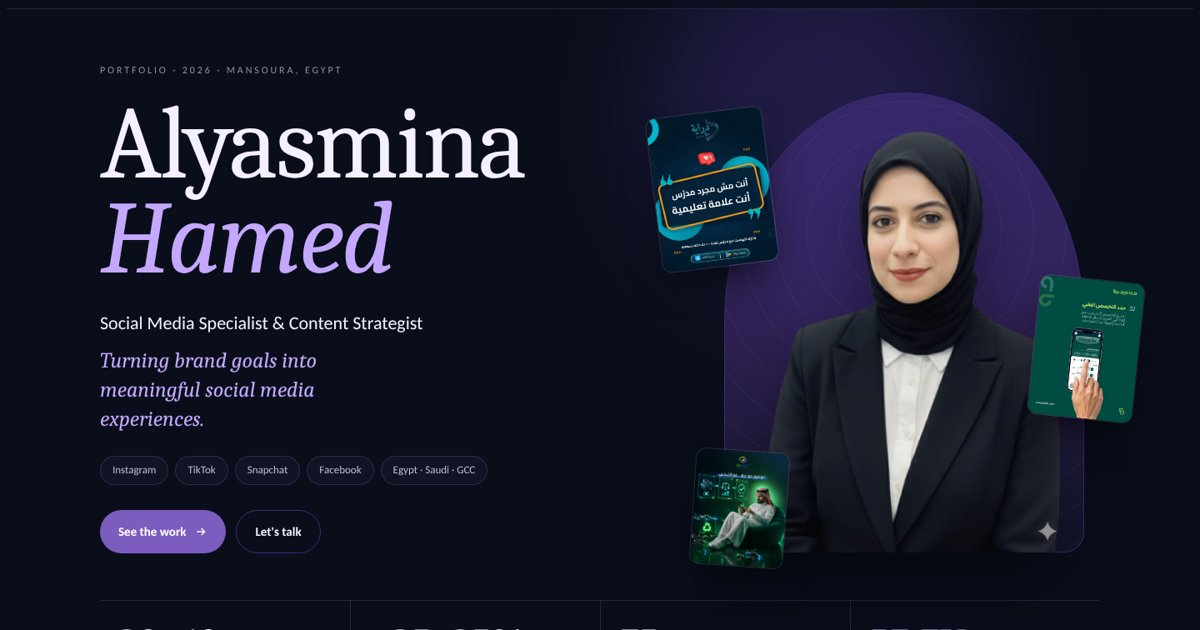
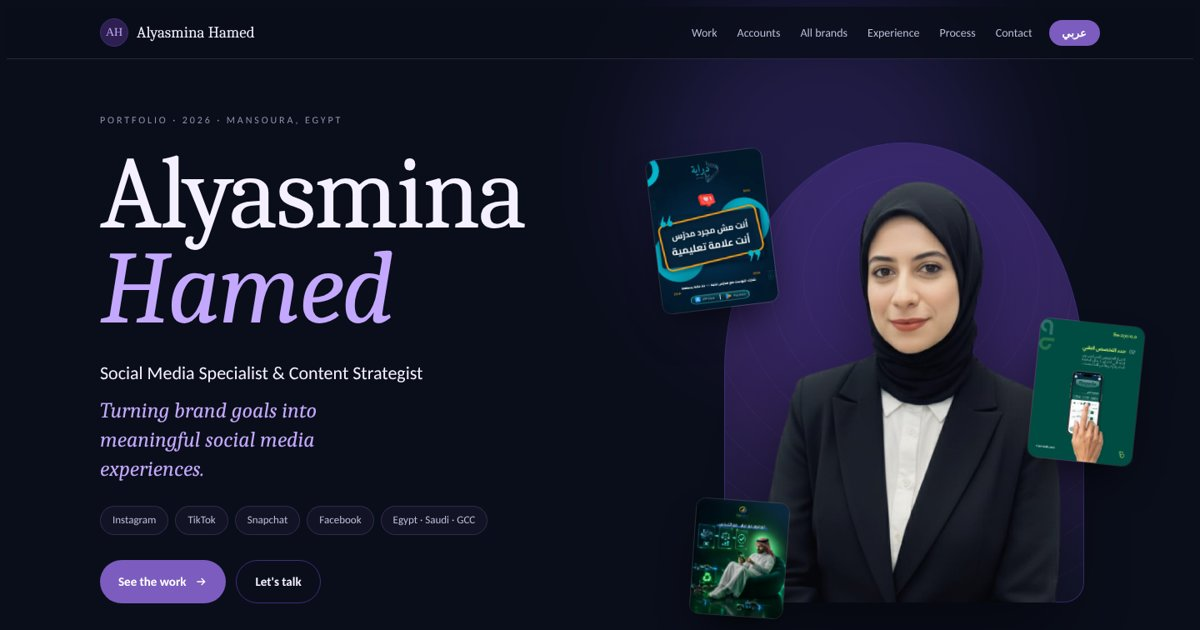
Add files via upload

diff --git a/index.html b/index.html
@@ -426,6 +426,46 @@ html[dir="rtl"] .mix i{transform-origin:right}
 .bchips span.b.star{border-color:var(--iris);color:var(--lilac)}
 @media (max-width:760px){.dir-row{grid-template-columns:1fr;gap:14px}}
 
+
+/* easy list results */
+.res.alt .res-cols{grid-template-columns:1fr 1fr;align-items:start}
+.res.alt .mgrid{grid-template-columns:repeat(2,1fr)}
+.stack{display:grid;gap:12px}
+.stack .post{background:#fff}
+.callouts{display:grid;gap:14px;margin-top:18px}
+.callouts p{font-size:14px;color:var(--mist);border-inline-start:2px solid var(--iris);padding-inline-start:12px}
+.callouts b{color:var(--paper);font-weight:600}
+@media (max-width:900px){.res.alt .res-cols{grid-template-columns:1fr}}
+
+
+/* mawaeidk results */
+.res.big .bighead{display:grid;grid-template-columns:auto 1fr;gap:32px;align-items:end}
+.res.big .bighead>*{min-width:0}
+.res.big .hero-n{font-family:"Fraunces",serif;font-weight:300;font-size:clamp(64px,9vw,120px);line-height:.9;color:var(--lilac);direction:ltr;unicode-bidi:isolate}
+.res.big .hero-n small{display:block;font-family:var(--body);font-size:14px;color:var(--mist);margin-top:12px;font-weight:400}
+.res.big .mgrid{grid-template-columns:repeat(4,1fr)}
+.shots3{display:grid;grid-template-columns:repeat(3,1fr);gap:12px}
+.shots3 .post{background:#fff}
+@media (max-width:900px){.res.big .bighead{grid-template-columns:1fr}.res.big .mgrid{grid-template-columns:repeat(2,1fr)!important}.shots3{grid-template-columns:1fr}}
+
+
+/* mawaeidk 3-platform */
+.plats{display:grid;grid-template-columns:1.25fr 1fr 1fr;gap:16px}
+.plats>div{min-width:0;background:rgba(10,14,26,.45);border:1px solid var(--line);border-radius:14px;padding:18px}
+.plats .pn{font-family:"Fraunces",serif;font-weight:300;font-size:clamp(36px,4vw,52px);line-height:1;direction:ltr;unicode-bidi:isolate;color:var(--paper)}
+html[dir="rtl"] .plats .pn{text-align:right}
+.plats .pl{font-size:13px;color:var(--mist);margin-top:6px}
+.plats .rows{display:grid;gap:8px;margin-top:16px;font-size:14px}
+.plats .rows div{display:flex;justify-content:space-between;gap:12px;border-top:1px solid var(--line);padding-top:8px}
+.plats .rows b{font-weight:600;direction:ltr;unicode-bidi:isolate;font-variant-numeric:tabular-nums}
+.plats .rows span{color:var(--mist)}
+.proofgrid{display:grid;grid-template-columns:repeat(3,1fr);gap:12px}
+.proofgrid .post{background:#fff}
+.proofgrid .wide{grid-column:1/-1}
+.proofgrid .span2{grid-column:span 2}
+@media (max-width:900px){.proofgrid .span2{grid-column:auto}}
+@media (max-width:900px){.plats,.proofgrid{grid-template-columns:1fr}}
+
 /* lightbox */
 .lb{position:fixed;inset:0;z-index:50;background:rgba(6,8,16,.92);display:grid;place-items:center;padding:max(24px,env(safe-area-inset-top,0px)) 24px 24px;cursor:zoom-out}
 .lb[hidden]{display:none}
@@ -480,7 +520,7 @@ html[dir="rtl"] .mix i{transform-origin:right}
       <div class="stat"><b class="num" data-count="40" data-pre="30–">30–40</b><span class="en">accounts managed at the same time</span><span class="ar">حساب بديرهم في نفس الوقت</span><small class="en">10–14 clients · Heen Agency</small><small class="ar">10–14 عميل · وكالة هين</small></div>
       <div class="stat"><b class="num" data-count="35" data-pre="+25–" data-suf="%">+25–35%</b><span class="en">reach growth in 2–3 months</span><span class="ar">زيادة في الوصول خلال 2–3 شهور</span><small>AK Media</small></div>
       <div class="stat"><b class="num" data-count="75" data-suf="+">75+</b><span class="en">brands in my content-plan archive</span><span class="ar">براند في أرشيف خطط المحتوى بتاعي</span><small class="en">Egypt, Saudi Arabia, Oman, GCC</small><small class="ar">مصر، السعودية، عُمان، الخليج</small></div>
-      <div class="stat"><b class="num hi" data-count="57.7" data-dec="1" data-suf="K">57.7K</b><span class="en">Facebook views in 3 months, from zero</span><span class="ar">مشاهدة على فيسبوك في 3 شهور، من الصفر</span><small class="en">Deraya · 760 new follows</small><small class="ar">دِراية · 760 متابعة جديدة</small></div>
+      <div class="stat"><b class="num hi" data-count="2.29" data-dec="2" data-suf="M">2.29M</b><span class="en">views in a brand's first 3 months</span><span class="ar">مشاهدة في أول 3 شهور لبراند</span><small class="en">Mawaeidk · Facebook, Instagram, TikTok</small><small class="ar">مواعيدك · فيسبوك، إنستجرام، تيك توك</small></div>
     </div>
   </div>
 
@@ -574,7 +614,7 @@ html[dir="rtl"] .mix i{transform-origin:right}
           <div class="idx"><b>02</b><span>Tasweeq</span><span class="en">Healthcare booking app · Saudi Arabia</span><span class="ar">تطبيق حجز مواعيد طبية · السعودية</span></div>
           <h3>Mawaeidk · مواعيدك — <span class="en"><em>making a booking app feel like care</em></span><span class="ar"><em>تطبيق حجز بإحساس الرعاية</em></span></h3>
         </div>
-        <p class="sum reveal"><span class="en">An app that lists healthcare providers and lets patients book in a few taps. I planned the monthly content, wrote the highlights, built the follower-growth and video ideas, and wrote the copy for provider-onboarding posts and an awareness reel for Breast Cancer Awareness Month.</span><span class="ar">تطبيق بيعرض مقدمي الخدمة الطبية وبيخلي المريض يحجز في كام ضغطة. خططت المحتوى الشهري، كتبت الهايلايتس، حطيت أفكار زيادة المتابعين والفيديوهات، وكتبت محتوى بوستات انضمام المراكز وريل توعوي لشهر التوعية بسرطان الثدي.</span></p>
+        <p class="sum reveal"><span class="en">An app that lists healthcare providers and lets patients book in a few taps. I planned the monthly content, wrote the highlights, built the follower-growth and video ideas, and wrote the copy for provider-onboarding posts and an awareness reel for Breast Cancer Awareness Month. In its first three months the accounts reached 2.29M views across Facebook, Instagram and TikTok.</span><span class="ar">تطبيق بيعرض مقدمي الخدمة الطبية وبيخلي المريض يحجز في كام ضغطة. خططت المحتوى الشهري، كتبت الهايلايتس، حطيت أفكار زيادة المتابعين والفيديوهات، وكتبت محتوى بوستات انضمام المراكز وريل توعوي لشهر التوعية بسرطان الثدي. وفي أول تلات شهور الحسابات وصلت لـ2.29 مليون مشاهدة على فيسبوك وإنستجرام وتيك توك.</span></p>
       </div>
       <div class="row4">
         <figure class="reveal"><div class="post"><img src="img/maw-1.webp" alt="Mawaeidk teaser post: coming soon to Qatar" width="900" height="1200" loading="lazy"></div><figcaption class="en">Teaser · market expansion</figcaption><figcaption class="ar">تيزر · التوسع في سوق جديد</figcaption></figure>
@@ -582,6 +622,38 @@ html[dir="rtl"] .mix i{transform-origin:right}
         <figure class="reveal"><div class="post"><img src="img/maw-3.webp" alt="Mawaeidk post: discounts from employers" width="900" height="1200" loading="lazy"></div><figcaption class="en">Benefit post · B2B angle</figcaption><figcaption class="ar">بوست ميزة · زاوية الشركات</figcaption></figure>
         <figure class="reveal"><div class="post"><img src="img/maw-4.webp" alt="Mawaeidk English app download post" width="900" height="1200" loading="lazy"></div><figcaption class="en">English download concept</figcaption><figcaption class="ar">فكرة تحميل بالإنجليزي</figcaption></figure>
       </div>
+
+      <div class="res big reveal" id="mawaeidk-results">
+        <div class="res-head">
+          <div><p class="eyebrow"><span class="en">Results · first 3 months</span><span class="ar">النتائج · أول 3 شهور</span></p>
+          <h4 style="margin-top:10px"><span class="en">Facebook, Instagram and TikTok</span><span class="ar">فيسبوك وإنستجرام وتيك توك</span></h4></div>
+          <span class="zero"><span class="en">3 platforms</span><span class="ar">3 منصات</span></span>
+        </div>
+        <div class="bighead" style="grid-template-columns:1fr">
+          <div class="hero-n">2.29M<small class="en">views across the three platforms (926.4K + 411.1K + 954.7K)</small><small class="ar">مشاهدة على التلات منصات (926.4K + 411.1K + 954.7K)</small></div>
+        </div>
+        <div class="plats">
+          <div><p class="plat">Facebook · <span class="en">organic + paid</span><span class="ar">أورجانيك + ممول</span></p><div class="pn">926.4K</div><p class="pl"><span class="en">views</span><span class="ar">مشاهدة</span></p>
+            <div class="rows"><div><span><span class="en">Viewers</span><span class="ar">مشاهد</span></span><b>240.9K</b></div><div><span><span class="en">Page visits</span><span class="ar">زيارات للصفحة</span></span><b>6.5K</b></div><div><span><span class="en">Link clicks</span><span class="ar">ضغطات على اللينك</span></span><b>3.9K</b></div><div><span><span class="en">Content interactions</span><span class="ar">تفاعل على المحتوى</span></span><b>389</b></div></div></div>
+          <div><p class="plat">Instagram</p><div class="pn">411.1K</div><p class="pl"><span class="en">views</span><span class="ar">مشاهدة</span></p>
+            <div class="rows"><div><span><span class="en">Reach</span><span class="ar">وصول</span></span><b>143K</b></div><div><span><span class="en">Content interactions</span><span class="ar">تفاعل على المحتوى</span></span><b>2.8K</b></div><div><span><span class="en">Link clicks</span><span class="ar">ضغطات على اللينك</span></span><b>2.4K</b></div><div><span><span class="en">Profile visits</span><span class="ar">زيارات للبروفايل</span></span><b>2.4K</b></div><div><span><span class="en">New follows</span><span class="ar">متابعات جديدة</span></span><b>214</b></div></div></div>
+          <div><p class="plat">TikTok · <span class="en">last 60 days</span><span class="ar">آخر 60 يوم</span></p><div class="pn">954.7K</div><p class="pl"><span class="en">video views</span><span class="ar">مشاهدة فيديو</span></p>
+            <div class="rows"><div><span><span class="en">Profile views</span><span class="ar">زيارات للبروفايل</span></span><b>3.1K</b></div><div><span><span class="en">Likes</span><span class="ar">إعجابات</span></span><b>1.8K</b></div><div><span><span class="en">Shares</span><span class="ar">مشاركات</span></span><b>72</b></div><div><span><span class="en">Comments</span><span class="ar">تعليقات</span></span><b>21</b></div></div></div>
+        </div>
+        <div class="callouts" style="margin-top:0">
+          <p><b class="en">6.3K link clicks</b><b class="ar">6.3 ألف ضغطة على اللينك</b> <span class="en">from Facebook (3.9K) and Instagram (2.4K) sent people towards booking in the app, which is the job of a booking app's social pages.</span><span class="ar">من فيسبوك (3.9 ألف) وإنستجرام (2.4 ألف) وجّهت الناس للحجز من التطبيق، ودي وظيفة صفحات تطبيق حجز أصلاً.</span></p>
+        </div>
+        <div class="proofgrid">
+          <figure class=""><div class="post"><img src="img/maw-fb-1.webp" alt="Meta insights, Mawaeidk Facebook: 926.4K views and 240.9K viewers" width="956" height="344" loading="lazy"></div></figure>
+          <figure class=""><div class="post"><img src="img/maw-fb-2.webp" alt="Meta insights, Mawaeidk Facebook: 389 content interactions and 3.9K link clicks" width="959" height="347" loading="lazy"></div></figure>
+          <figure class=""><div class="post"><img src="img/maw-fb-3.webp" alt="Meta insights, Mawaeidk Facebook: 6.5K visits and 10 follows" width="963" height="347" loading="lazy"></div></figure>
+          <figure class=""><div class="post"><img src="img/maw-ig-1.webp" alt="Meta insights, Mawaeidk Instagram: 411.1K views, 143K reach, 2.8K interactions, 2.4K link clicks" width="957" height="678" loading="lazy"></div></figure>
+          <figure class="span2"><div class="post"><img src="img/maw-ig-2.webp" alt="Meta insights, Mawaeidk Instagram: 2.4K profile visits and 214 follows" width="942" height="332" loading="lazy"></div></figure>
+                    <figure class="wide"><div class="post"><img src="img/maw-tt.webp" alt="TikTok Studio, Mawaeidk, last 60 days: 954.7K video views, 3.1K profile views, 1.8K likes, 21 comments, 72 shares" width="1645" height="215" loading="lazy"></div></figure>
+        </div>
+        <p class="note"><span class="en">Facebook and Instagram from Meta Business Suite (Aug 10 to early Nov 2026; Facebook organic and paid combined). TikTok from TikTok Studio, last 60 days. Platform growth percentages compare against the period before the accounts were active, so they are not shown.</span><span class="ar">فيسبوك وإنستجرام من Meta Business Suite (من 10 أغسطس لأوائل نوفمبر 2026؛ فيسبوك أورجانيك وممول مع بعض). تيك توك من TikTok Studio، آخر 60 يوم. نسب النمو اللي بتعرضها المنصات مقارنة بفترة قبل ما الحسابات تبدأ، علشان كده مش معروضة.</span></p>
+      </div>
+
     </article>
 
     <!-- C. Tasweeq -->
@@ -614,11 +686,41 @@ html[dir="rtl"] .mix i{transform-origin:right}
           <div class="idx"><b>04</b><span>Tasweeq</span><span class="en">Amazon seller services · Saudi Arabia</span><span class="ar">خدمات بائعي أمازون · السعودية</span></div>
           <h3>Easy List — <span class="en"><em>two months, two feeds</em></span><span class="ar"><em>شهرين، فيدين</em></span></h3>
         </div>
-        <p class="sum reveal"><span class="en">Easy List helps sellers list and grow on Amazon. October leaned on seasonal moments (October victory, Black Friday ads) and seller pain points like lost inventory and refunds. November moved to a cleaner blue-and-white system with a seven-slide carousel and alternating colour posts.</span><span class="ar">إيزي ليست بتساعد البائعين يعرضوا ويكبروا على أمازون. أكتوبر اعتمد على المواسم (نصر أكتوبر، إعلانات البلاك فرايداي) ومشاكل البائع زي المخزون الضايع واسترداد الفلوس. نوفمبر اتنقل لنظام أزرق وأبيض أنضف مع كاروسيل 7 سلايدز وتبديل الألوان بين البوستات.</span></p>
+        <p class="sum reveal"><span class="en">Easy List helps sellers list and grow on Amazon. October leaned on seasonal moments (October victory, Black Friday ads) and seller pain points like lost inventory and refunds. November moved to a cleaner blue-and-white system with a seven-slide carousel and alternating colour posts. Over three months the Facebook page reached 63.3K views and 1.2K new follows.</span><span class="ar">إيزي ليست بتساعد البائعين يعرضوا ويكبروا على أمازون. أكتوبر اعتمد على المواسم (نصر أكتوبر، إعلانات البلاك فرايداي) ومشاكل البائع زي المخزون الضايع واسترداد الفلوس. نوفمبر اتنقل لنظام أزرق وأبيض أنضف مع كاروسيل 7 سلايدز وتبديل الألوان بين البوستات. وفي تلات شهور صفحة فيسبوك وصلت لـ63.3 ألف مشاهدة و1.2 ألف متابعة جديدة.</span></p>
       </div>
       <div class="duo">
         <figure class="reveal"><span class="lab"><span class="en">October</span><span class="ar">أكتوبر</span></span><div class="post"><img src="img/easy-oct.webp" alt="Easy List October feed grid" width="1000" height="1250" loading="lazy"></div></figure>
         <figure class="reveal"><span class="lab"><span class="en">November</span><span class="ar">نوفمبر</span></span><div class="post"><img src="img/easy-nov.webp" alt="Easy List November feed preview" width="1000" height="1248" loading="lazy"></div></figure>
+      </div>
+
+      <div class="res alt reveal" id="easylist-results">
+        <div class="res-head">
+          <div><p class="eyebrow"><span class="en">Results · 3 months I managed</span><span class="ar">النتائج · 3 شهور مسكت فيهم الحساب</span></p>
+          <h4 style="margin-top:10px"><span class="en">Facebook page, Aug 10 – early Nov 2026</span><span class="ar">صفحة فيسبوك، من 10 أغسطس لأوائل نوفمبر 2026</span></h4></div>
+          <span class="zero">Facebook</span>
+        </div>
+        <div class="res-cols">
+          <div>
+            <div class="mgrid">
+              <div class="m hi"><b>63.3K</b><span class="en">views</span><span class="ar">مشاهدة</span></div>
+              <div class="m"><b>23.5K</b><span class="en">viewers</span><span class="ar">مشاهد</span></div>
+              <div class="m hi"><b>1.2K</b><span class="en">new follows</span><span class="ar">متابعة جديدة</span></div>
+              <div class="m hi"><b>694</b><span class="en">link clicks</span><span class="ar">ضغطة على اللينك</span></div>
+              <div class="m"><b>1K</b><span class="en">page visits</span><span class="ar">زيارة للصفحة</span></div>
+              <div class="m"><b>254</b><span class="en">content interactions</span><span class="ar">تفاعل على المحتوى</span></div>
+            </div>
+            <div class="callouts">
+              <p><b class="en">694 link clicks</b><b class="ar">694 ضغطة على اللينك</b> <span class="en">sent sellers from the page to Easy List, which is the action a B2B service page is for.</span><span class="ar">ودّت البائعين من الصفحة لإيزي ليست، ودي الخطوة اللي صفحة خدمة B2B معمولة علشانها.</span></p>
+              <p><b class="en">1.2K new follows</b><b class="ar">1.2 ألف متابعة جديدة</b> <span class="en">in three months for a niche service aimed at Amazon sellers.</span><span class="ar">في تلات شهور، لخدمة متخصصة موجهة لبائعي أمازون.</span></p>
+            </div>
+          </div>
+          <div class="stack">
+            <figure><div class="post"><img src="img/easy-fb-3.webp" alt="Meta insights for Easy List's Facebook page: 63.3K views and 23.5K viewers" width="961" height="342" loading="lazy"></div></figure>
+            <figure><div class="post"><img src="img/easy-fb-1.webp" alt="Meta insights for Easy List's Facebook page: 1K visits and 1.2K follows" width="953" height="355" loading="lazy"></div></figure>
+            <figure><div class="post"><img src="img/easy-fb-2.webp" alt="Meta insights for Easy List's Facebook page: 254 content interactions and 694 link clicks" width="956" height="347" loading="lazy"></div><figcaption class="en">Facebook · Meta Business Suite</figcaption><figcaption class="ar">فيسبوك · Meta Business Suite</figcaption></figure>
+          </div>
+        </div>
+        <p class="note"><span class="en">Meta Business Suite, Aug 10 to early Nov 2026. Meta's growth figures (e.g. +25.0K% views, +38.5K% follows) compare against an earlier period when the page had almost no activity, so the totals above are the meaningful numbers.</span><span class="ar">من Meta Business Suite، من 10 أغسطس لأوائل نوفمبر 2026. نسب النمو اللي بتعرضها ميتا (زي +25 ألف% مشاهدات و+38.5 ألف% متابعات) مقارنة بفترة قبلها الصفحة كان نشاطها شبه معدوم، علشان كده الأرقام الفعلية اللي فوق هي الأهم.</span></p>
       </div>
     </article>
 
@@ -727,8 +829,8 @@ html[dir="rtl"] .mix i{transform-origin:right}
     <div class="acc-grid">
       <div class="acc reveal"><div class="vis"><img src="img/ig-khashab.webp" alt="khashab_alud profile" width="480" height="886" loading="lazy"></div><div class="body"><span class="via">Heen</span><span class="handle">@khashab_alud</span><span class="aind"><span class="en">Oud &amp; perfume oils · KSA</span><span class="ar">دهن عود وعطور · السعودية</span></span><span class="ev"><span class="en">Monthly plans (months 5–8, Jan, Apr), captions, design briefs, competitor analysis.</span><span class="ar">خطط شهرية (5–8، يناير، أبريل)، كابشنز، بريفات تصميم، تحليل منافسين.</span></span><a class="open" href="https://www.instagram.com/khashab_alud" target="_blank" rel="noopener"><span class="en">Open account ↗</span><span class="ar">افتح الحساب ↗</span></a></div></div>
       <div class="acc reveal"><div class="vis"><img src="img/deraya-2.webp" alt="Deraya design" width="900" height="1200" loading="lazy"></div><div class="body"><span class="via"><span class="en">Freelance</span><span class="ar">فريلانس</span></span><span class="handle">@deraya_cloud</span><span class="aind"><span class="en">EdTech platform</span><span class="ar">منصة تعليمية</span></span><span class="ev"><span class="en">Built from zero: 57.7K Facebook views, 760 new follows and 13.0K Instagram views in 3 months.</span><span class="ar">من الصفر: 57.7 ألف مشاهدة على فيسبوك، 760 متابعة جديدة، و13 ألف مشاهدة على إنستجرام في 3 شهور.</span></span><a class="open" href="https://www.instagram.com/deraya_cloud" target="_blank" rel="noopener"><span class="en">Open account ↗</span><span class="ar">افتح الحساب ↗</span></a></div></div>
-      <div class="acc reveal"><div class="vis"><img src="img/maw-3.webp" alt="Mawaeidk design" width="900" height="1200" loading="lazy"></div><div class="body"><span class="via">Tasweeq</span><span class="handle">@mawaeidk</span><span class="aind"><span class="en">Healthcare booking app</span><span class="ar">تطبيق حجز طبي</span></span><span class="ev"><span class="en">Month-2 content plan, highlights, growth &amp; video ideas, awareness reel.</span><span class="ar">خطة محتوى الشهر التاني، هايلايتس، أفكار نمو وفيديو، ريل توعوي.</span></span><a class="open" href="https://www.instagram.com/mawaeidk" target="_blank" rel="noopener"><span class="en">Open account ↗</span><span class="ar">افتح الحساب ↗</span></a></div></div>
-      <div class="acc reveal"><div class="vis"><img src="img/easy-nov.webp" alt="Easy List feed" width="1000" height="1248" loading="lazy"></div><div class="body"><span class="via">Tasweeq</span><span class="handle">@easylist1</span><span class="aind"><span class="en">Amazon seller services</span><span class="ar">خدمات بائعي أمازون</span></span><span class="ev"><span class="en">October and November content plans, feed planning.</span><span class="ar">خطط محتوى أكتوبر ونوفمبر، تخطيط الفيد.</span></span><a class="open" href="https://www.instagram.com/easylist1" target="_blank" rel="noopener"><span class="en">Open account ↗</span><span class="ar">افتح الحساب ↗</span></a></div></div>
+      <div class="acc reveal"><div class="vis"><img src="img/maw-3.webp" alt="Mawaeidk design" width="900" height="1200" loading="lazy"></div><div class="body"><span class="via">Tasweeq</span><span class="handle">@mawaeidk</span><span class="aind"><span class="en">Healthcare booking app</span><span class="ar">تطبيق حجز طبي</span></span><span class="ev"><span class="en">First 3 months: 2.29M views across Facebook, Instagram and TikTok, and 6.3K link clicks.</span><span class="ar">أول 3 شهور: 2.29 مليون مشاهدة على فيسبوك وإنستجرام وتيك توك، و6.3 ألف ضغطة على اللينك.</span></span><a class="open" href="https://www.instagram.com/mawaeidk" target="_blank" rel="noopener"><span class="en">Open account ↗</span><span class="ar">افتح الحساب ↗</span></a></div></div>
+      <div class="acc reveal"><div class="vis"><img src="img/easy-nov.webp" alt="Easy List feed" width="1000" height="1248" loading="lazy"></div><div class="body"><span class="via">Tasweeq</span><span class="handle">@easylist1</span><span class="aind"><span class="en">Amazon seller services</span><span class="ar">خدمات بائعي أمازون</span></span><span class="ev"><span class="en">3 months on Facebook: 63.3K views, 1.2K new follows, 694 link clicks. Oct &amp; Nov content plans.</span><span class="ar">3 شهور على فيسبوك: 63.3 ألف مشاهدة، 1.2 ألف متابعة جديدة، 694 ضغطة على اللينك. خطط محتوى أكتوبر ونوفمبر.</span></span><a class="open" href="https://www.instagram.com/easylist1" target="_blank" rel="noopener"><span class="en">Open account ↗</span><span class="ar">افتح الحساب ↗</span></a></div></div>
       <div class="acc reveal"><div class="vis type"><p>تحفة<small>Tuhfa</small></p></div><div class="body"><span class="via">Heen</span><span class="handle">@tuhfa.fn</span><span class="aind"><span class="en">Retail · KSA</span><span class="ar">متجر · السعودية</span></span><span class="ev"><span class="en">Four monthly social media plans in the archive (incl. months 7 and 8).</span><span class="ar">أربع خطط سوشيال ميديا شهرية في الأرشيف (منها الشهر 7 و8).</span></span><a class="open" href="https://www.instagram.com/tuhfa.fn" target="_blank" rel="noopener"><span class="en">Open account ↗</span><span class="ar">افتح الحساب ↗</span></a></div></div>
       <div class="acc reveal"><div class="vis type"><p>كسوة<small>Lady's Kiswa</small></p></div><div class="body"><span class="via">Heen</span><span class="handle">@ladys_kswa_</span><span class="aind"><span class="en">Women's fashion · KSA</span><span class="ar">أزياء نسائية · السعودية</span></span><span class="ev"><span class="en">Monthly plans for months 3, 7, 8 and 9.</span><span class="ar">خطط شهرية للشهور 3 و7 و8 و9.</span></span><a class="open" href="https://www.instagram.com/ladys_kswa_" target="_blank" rel="noopener"><span class="en">Open account ↗</span><span class="ar">افتح الحساب ↗</span></a></div></div>
       <div class="acc reveal"><div class="vis type"><p>أرض النكهات<small>Ard Al Nakhat</small></p></div><div class="body"><span class="via">Heen</span><span class="handle">@ard_elnkahat</span><span class="aind"><span class="en">Food &amp; spices</span><span class="ar">أكل وتوابل</span></span><span class="ev"><span class="en">Video content plan.</span><span class="ar">خطة فيديوهات.</span></span><a class="open" href="https://www.instagram.com/ard_elnkahat" target="_blank" rel="noopener"><span class="en">Open account ↗</span><span class="ar">افتح الحساب ↗</span></a></div></div>
@@ -913,7 +1015,7 @@ html[dir="rtl"] .mix i{transform-origin:right}
       <div class="reveal"><h3><span class="en">I plan before I post</span><span class="ar">بخطط قبل ما أنشر</span></h3><p><span class="en">Competitor research and a clear position come first, as in the ReValue and Saree3 plans.</span><span class="ar">بحث المنافسين وتموضع واضح بييجوا الأول، زي خطط ريفاليو وسارع.</span></p></div>
       <div class="reveal"><h3><span class="en">I write in your customer's voice</span><span class="ar">بكتب بصوت عميلك</span></h3><p><span class="en">Saudi dialect for Khashab Al Oud, Egyptian for local clinics, English for app launches.</span><span class="ar">سعودي لخشب العود، مصري للعيادات المحلية، إنجليزي لإطلاق التطبيقات.</span></p></div>
       <div class="reveal"><h3><span class="en">I handle volume without losing quality</span><span class="ar">بشيل حجم شغل كبير من غير ما الجودة تقل</span></h3><p><span class="en">30–40 accounts at once at Heen, each with its own monthly plan.</span><span class="ar">30–40 حساب في نفس الوقت في هين، كل واحد له خطته الشهرية.</span></p></div>
-      <div class="reveal"><h3><span class="en">I read the numbers</span><span class="ar">بقرا الأرقام</span></h3><p><span class="en">A statistics degree, weekly reports, and results I can show, like Deraya’s first three months.</span><span class="ar">دراسة إحصاء، وتقارير أسبوعية، ونتايج أقدر أوريها زي أول تلات شهور لدِراية.</span></p></div>
+      <div class="reveal"><h3><span class="en">I read the numbers</span><span class="ar">بقرا الأرقام</span></h3><p><span class="en">A statistics degree, weekly reports, and results I can show, like the first three months of Mawaeidk, Deraya and Easy List.</span><span class="ar">دراسة إحصاء، وتقارير أسبوعية، ونتايج أقدر أوريها زي أول تلات شهور لمواعيدك ودِراية وإيزي ليست.</span></p></div>
     </div>
   </section>
 
